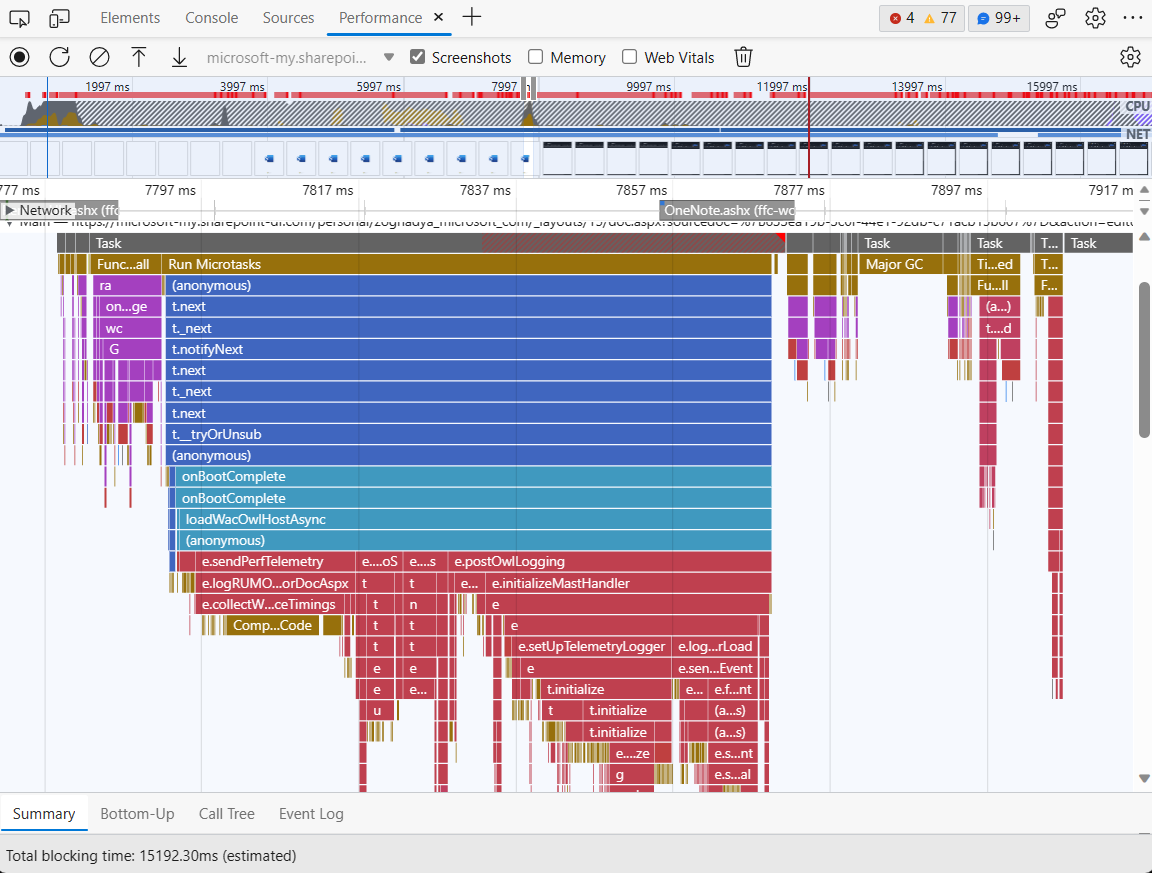
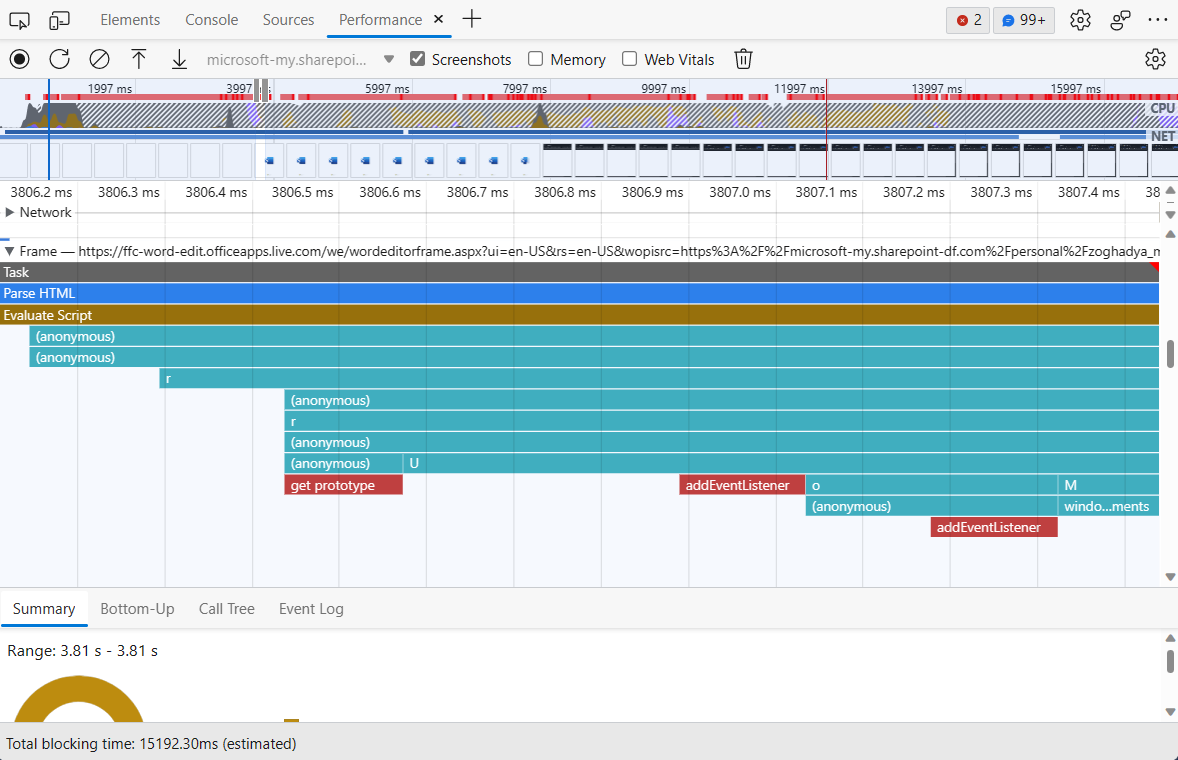
Got the image needed to show unminification in iframes

diff --git a/microsoft-edge/devtools-guide-chromium/whats-new/2023/03/devtools-112.md b/microsoft-edge/devtools-guide-chromium/whats-new/2023/03/devtools-112.md
@@ -23,7 +23,7 @@ In previous versions of Microsoft Edge, JavaScript execution in an out-of-proces
 
 In Microsoft Edge 112, the Performance tool now loads and applies sourcemaps to the performance events tracked in OOPIFs.  As a result, you can now see unminified file and function names for the JavaScript execution within an OOPIF when recording a profile in the Performance tool.
 
-![To-do, Zoher get from Rob: The unminified call stack from a profile recorded in the Performance tool](./devtools-112-images/template.png)
+![The unminified call stack from a profile recorded in the Performance tool](./devtools-112-images/unminification-in-oopifs-after.png)
 
 See also:
 * [Performance tool unminifies file and function names when profiling production code
